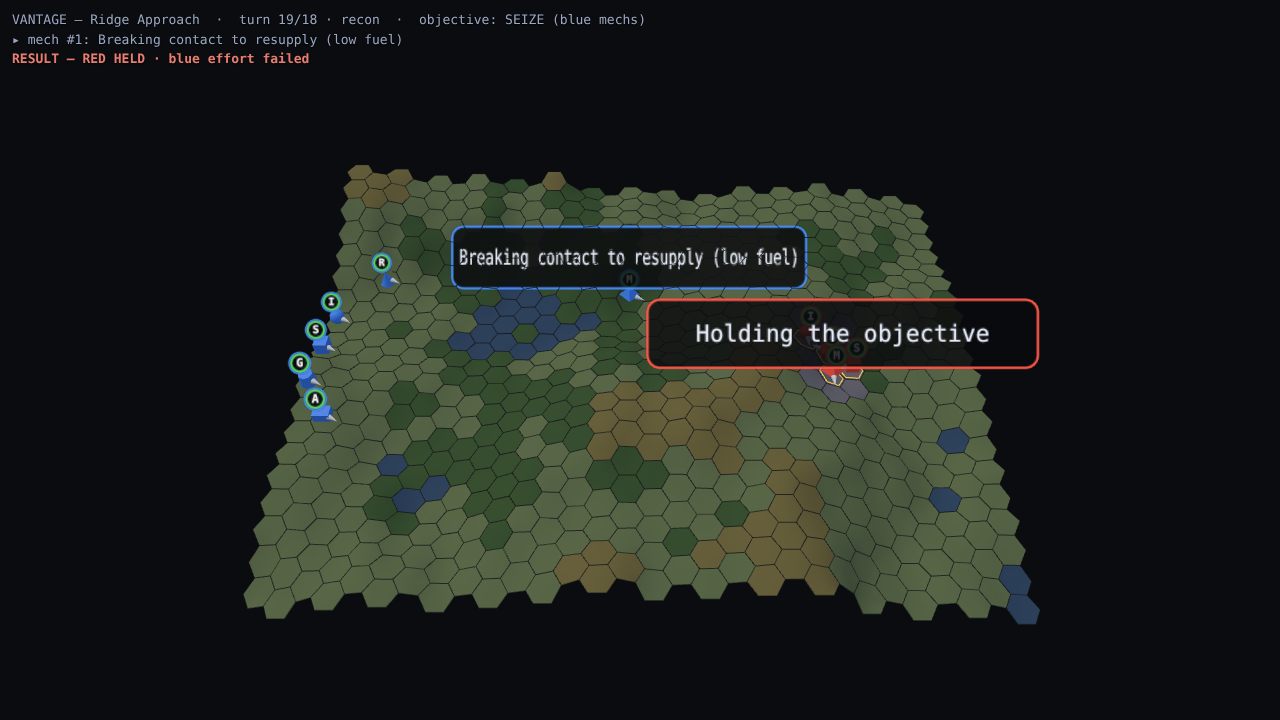
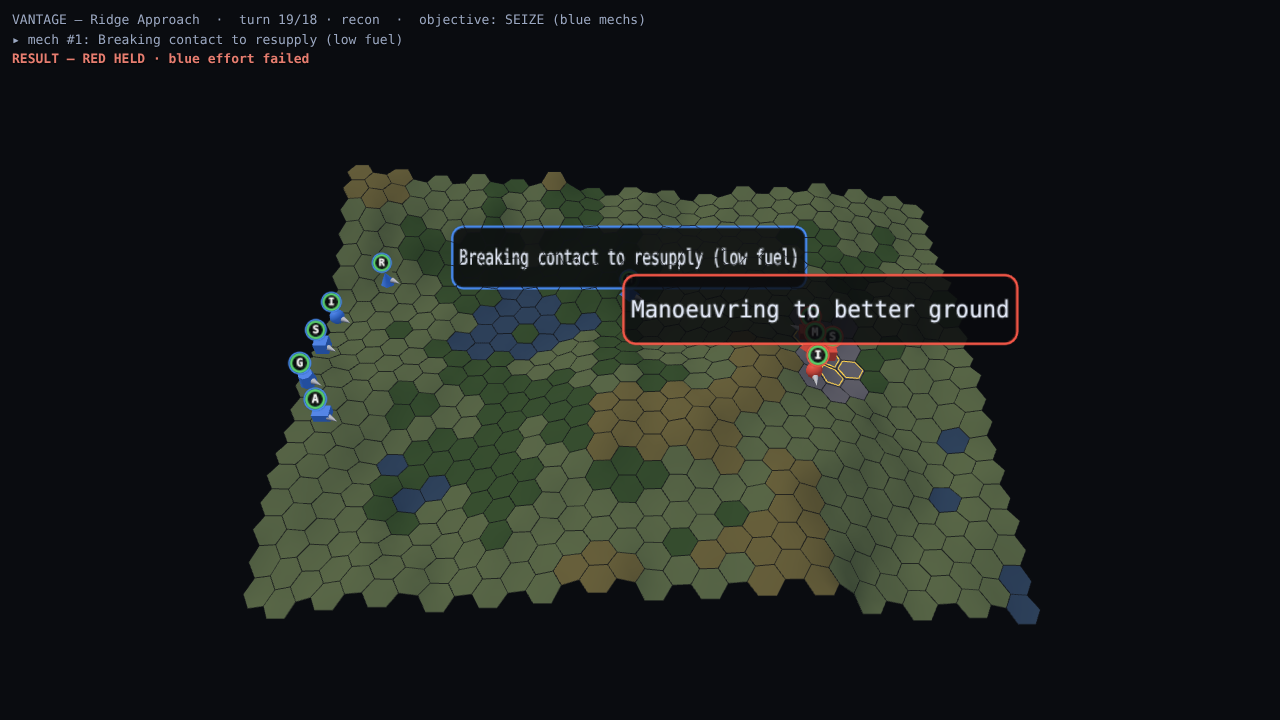
AI-3a: varied, proactive force planning (deterministic, not rote)
Address the concern that the AI shouldn't play rote, predictable patterns —
without breaking the deterministic/seedable foundation.

- sim/plan.ts — a per-side force planner assigns each unit a TASK (hold a
  prepared position / screen / rove / rear). It's deterministic yet VARIED:
  seeded "AI noise" (per seed/turn/side) chooses posture, how far forward to set
  up, and which cover/overwatch positions to occupy. Same seed → identical
  (self-play/tests still hold); different seeds → different defences, so the AI
  can't be memorised as one script.
- A defender no longer sits clumped on the objective: it disperses into prepared
  cover/overwatch positions facing the approach, holds its supply to the rear,
  and sometimes ROVES the mech to better ground (proactive) instead of anchoring.
- sim/ai.ts — decideUnit(state, unit, task?) consumes the assigned goal via the
  existing consideration scorer (objective pull retargets to the task hex; the
  seize bonus is attacker-only). commandForce plans the side first, then acts.
  The attacker stays objective-seeking (no tasks) — the proof's blue side is
  unchanged.

Determinism preserved end-to-end. The now-competent, varied defender sometimes
holds even a supported attack, so the proof is realistic: unaided 0/20, with
concentrated support ~16/24 (≥12/20). Fixed proof seed moved to one that wins.

Verified: 4 new plan tests (determinism, cross-seed variety, dispersed
[…]

Changed region(s): [[0.4688, 0.3667, 0.8125, 0.55]]

diff --git a/src/sim/plan.ts b/src/sim/plan.ts
@@ -1,0 +1,136 @@
+import { mulberry32Step } from "../core/rng";
+import { terrain } from "../data/terrain";
+import type { Side } from "../data/types";
+import { unitType } from "../data/units";
+import { hexDistance, hexKey, type Hex } from "./hex";
+import { livingUnits, type GameState } from "./state";
+
+// Force-level planning. Before units act, the AI forms a plan for its side and
+// assigns each unit a TASK (where to be, what posture). The plan is DETERMINISTIC
+// (seeded) but VARIED and PROACTIVE: a defender doesn't just sit on the point —
+// it picks prepared positions in cover/overwatch, varies how far forward it sets
+// up, sometimes pushes a screen or sends a rover, and keeps the rear safe. The
+// variety comes from seeded "AI noise", so the same seed replays identically
+// (self-play/tests hold) while no two seeds — and few turns — play the same way.
+
+export type TaskKind = "hold" | "screen" | "rove" | "rear";
+
+export interface Task {
+  goalHex: Hex;
+  kind: TaskKind;
+}
+
+export interface ForcePlan {
+  tasks: Map<number, Task>;
+}
+
+/** Deterministic per-(seed, turn, side, salt) value in [0,1). Different seeds →
+ *  different choices; same seed → identical. */
+export function aiNoise(state: GameState, side: Side, salt: number): number {
+  const h =
+    (Math.imul(state.seed | 1, 2654435761) ^
+      Math.imul(state.turn + 1, 40503) ^
+      (side === "blue" ? 0x9e3779b1 : 0x85ebca6b) ^
+      Math.imul(salt + 1, 668265263)) |
+    0;
+  return mulberry32Step(h).value;
+}
+
+function centroid(hexes: readonly Hex[]): Hex {
+  if (hexes.length === 0) return { q: 0, r: 0 };
+  let q = 0;
+  let r = 0;
+  for (const h of hexes) {
+    q += h.q;
+    r += h.r;
+  }
+  return { q: Math.round(q / hexes.length), r: Math.round(r / hexes.length) };
+}
+
+function passable(state: GameState, h: Hex): boolean {
+  const cell = state.cells.get(hexKey(h));
+  return !!cell && Number.isFinite(terrain(cell.terrain).moveCost);
+}
+
+/** Build the side's plan. The attacker keeps default goals (objective-seeking,
+ *  handled by the unit AI); the defender is positioned deliberately. */
+export function planForce(state: GameState, side: Side): ForcePlan {
+  const tasks = new Map<number, Task>();
+  if (side === state.objective.attacker) return { tasks }; // attacker: AI-2 objective-seeking
+
+  const zone = state.objective.zone;
+  const obj = centroid(zone);
+  // The threat comes from the attacker's home edge; "forward" faces it.
+  const threatFromMinQ = state.objective.attacker === "blue";
+  const forwardSign = threatFromMinQ ? -1 : 1;
+
+  // Seeded posture: how far forward to set up, and whether the mech roves.
+  const forwardness = 1 + Math.floor(aiNoise(state, side, 1) * 3); // 1..3 hexes
+  const roveMech = aiNoise(state, side, 2) < 0.45; // sometimes the heavy element manoeuvres
+  const screenFwd = aiNoise(state, side, 3) < 0.5; // sometimes push a forward screen
+
+  const idealForwardQ = obj.q + forwardSign * forwardness;
+  // Candidate prepared positions: near the objective, cover preferred, on the
+  // threat-facing side; a seeded jitter per hex breaks ties → varied layouts.
+  const cand = state.map.cells
+    .filter((c) => passable(state, c.hex) && hexDistance(c.hex, obj) <= 4)
+    .map((c) => {
+      const t = terrain(c.terrain);
+      const forwardFit = -Math.abs(c.hex.q - idealForwardQ); // near the chosen depth
+      const jitter = aiNoise(state, side, c.hex.q * 31 + c.hex.r * 7) * 1.4;
+      return { hex: c.hex, score: t.cover * 2 + forwardFit + jitter - hexDistance(c.hex, obj) * 0.2 };
+    })
+    .sort((a, b) => b.score - a.score)
+    .map((c) => c.hex);
+
+  const used = new Set<string>();
+  const take = (pred: (h: Hex) => boolean): Hex | undefined => {
+    for (const h of cand) {
+      if (!used.has(hexKey(h)) && pred(h)) {
+        used.add(hexKey(h));
+        return h;
+      }
+    }
+    return undefined;
+  };
+  const nearestZoneHex = (from: Hex): Hex => {
+    let best = zone[0] ?? obj;
+    let bd = Infinity;
+    for (const z of zone) {
+      const d = hexDistance(from, z);
+      if (d < bd) {
+        bd = d;
+        best = z;
+      }
+    }
+    return best;
+  };
+  // A safe hex to the rear (away from the threat) for the supply train.
+  const rearQ = obj.q - forwardSign * 3;
+  const rearHex =
+    state.map.cells
+      .filter((c) => passable(state, c.hex) && hexDistance(c.hex, obj) <= 5)
+      .map((c) => ({ hex: c.hex, d: Math.abs(c.hex.q - rearQ) + hexDistance(c.hex, obj) * 0.3 }))
+      .sort((a, b) => a.d - b.d)[0]?.hex ?? obj;
+
+  for (const u of livingUnits(state, side)) {
+    const cls = unitType(u.typeId).cls;
+    if (cls === "supply") {
+      tasks.set(u.id, { goalHex: rearHex, kind: "rear" });
+    } else if (cls === "mech") {
+      if (roveMech) {
+        // Manoeuvre to a forward cover/overwatch position instead of sitting.
+        const fwd = take((h) => forwardSign < 0 ? h.q < obj.q : h.q > obj.q) ?? nearestZoneHex(u.hex);
+        tasks.set(u.id, { goalHex: fwd, kind: "rove" });
+      } else {
+        tasks.set(u.id, { goalHex: nearestZoneHex(u.hex), kind: "hold" }); // anchor the objective
+      }
+    } else if (screenFwd && (cls === "recon" || cls === "infantry")) {
+      const screen = take((h) => (forwardSign < 0 ? h.q <= idealForwardQ : h.q >= idealForwardQ)) ?? u.hex;
+      tasks.set(u.id, { goalHex: screen, kind: "screen" });
+    } else {
+      tasks.set(u.id, { goalHex: take(() => true) ?? u.hex, kind: "hold" });
+    }
+  }
+  return { tasks };
+}

diff --git a/test/plan.test.ts b/test/plan.test.ts
@@ -1,0 +1,41 @@
+import { describe, it, expect } from "vitest";
+import { planForce } from "../src/sim/plan";
+import { createGame } from "../src/sim/state";
+import { hexKey } from "../src/sim/hex";
+import { MAP01 } from "../src/data/maps/map01";
+
+// Layout signature: the multiset of (goal hex, task kind) a side's plan produces.
+function defenderLayout(seed: number): string {
+  const s = createGame(MAP01, seed);
+  return [...planForce(s, "red").tasks.values()]
+    .map((t) => `${hexKey(t.goalHex)}:${t.kind}`)
+    .sort()
+    .join("|");
+}
+
+describe("force planning (AI-3a)", () => {
+  it("is deterministic for a seed", () => {
+    const s = createGame(MAP01, 5);
+    expect(planForce(s, "red")).toEqual(planForce(s, "red"));
+  });
+
+  it("varies the defence across seeds (not a rote pattern)", () => {
+    const layouts = new Set<string>();
+    for (let seed = 1; seed <= 8; seed++) layouts.add(defenderLayout(seed));
+    expect(layouts.size).toBeGreaterThan(1); // different seeds → different setups
+  });
+
+  it("spreads the defenders into prepared positions, not all on the point", () => {
+    const s = createGame(MAP01, 3);
+    const plan = planForce(s, "red");
+    const goals = new Set([...plan.tasks.values()].map((t) => hexKey(t.goalHex)));
+    expect(plan.tasks.size).toBeGreaterThanOrEqual(4); // every red unit is tasked
+    expect(goals.size).toBeGreaterThanOrEqual(3); // and dispersed to distinct positions
+    expect([...plan.tasks.values()].some((t) => t.kind === "rear")).toBe(true); // supply held back
+  });
+
+  it("leaves the attacker objective-seeking (no imposed positions)", () => {
+    const s = createGame(MAP01, 3);
+    expect(planForce(s, "blue").tasks.size).toBe(0);
+  });
+});

diff --git a/src/sim/ai.ts b/src/sim/ai.ts
@@ -10,6 +10,7 @@ import { pathTo, reachable } from "./pathing";
 import { canMove, livingUnits, terrainAt, type GameState, type UnitInstance } from "./state";
 import { isEligible } from "./turn";
 import { isScouted } from "./vision";
+import { planForce, type Task } from "./plan";
 
 // The force AI: ONE capability-aware, fog-limited brain that commands whatever
 // units are assigned to it (controller === "ai"), each according to its role.
@@ -147,6 +148,8 @@ interface AiContext {
   visible: EnemyView[];
   believedHexes: Hex[];
   friendHexes: Hex[];
+  goal: readonly Hex[]; // where this unit is trying to be (zone, or an assigned task hex)
+  allowSeize: boolean; // only the attacker scores the seize bonus
   zone: readonly Hex[];
   zoneKeys: Set<string>;
   supplyPts: Hex[];
@@ -169,8 +172,8 @@ type ConsiderationName =
   | "nearNeedy";
 
 const CONSIDERATIONS: Record<ConsiderationName, (ctx: AiContext, h: Hex) => number> = {
-  objective: (ctx, h) => ctx.dObjFrom - nearestDist(h, ctx.zone),
-  seize: (ctx, h) => (ctx.zoneKeys.has(hexKey(h)) ? 1 : 0),
+  objective: (ctx, h) => ctx.dObjFrom - nearestDist(h, ctx.goal),
+  seize: (ctx, h) => (ctx.allowSeize && ctx.zoneKeys.has(hexKey(h)) ? 1 : 0),
   supply: (ctx, h) => ctx.need.need * (ctx.dSupFrom - nearestDist(h, ctx.supplyPts)),
   exposure: (ctx, h) => exposureAt(ctx.state, ctx.side, h, ctx.believed),
   attack: (ctx, h) => bestShotValue(ctx.unit, h, ctx.visible),
@@ -211,13 +214,14 @@ function needsSupply(u: UnitInstance): boolean {
 
 /** Decide one unit's move this turn (pure — no mutation), scoring reachable
  *  hexes by its role's weighted considerations. */
-export function decideUnit(state: GameState, unit: UnitInstance): UnitDecision {
+export function decideUnit(state: GameState, unit: UnitInstance, task?: Task): UnitDecision {
   const side = unit.side;
   const cls = unitType(unit.typeId).cls;
   const role = ROLE[cls];
   const believed = believedEnemies(state, side);
   const visible = visibleSightings(state, side);
   const zone = state.objective.zone;
+  const goal = task ? [task.goalHex] : zone; // an assigned position, or the objective
   const ctx: AiContext = {
     state,
     side,
@@ -226,12 +230,14 @@ export function decideUnit(state: GameState, unit: UnitInstance): UnitDecision {
     visible,
     believedHexes: believed.map((e) => e.hex),
     friendHexes: livingUnits(state, side).filter((u) => u.id !== unit.id).map((u) => u.hex),
+    goal,
+    allowSeize: !task, // only the objective-seeking attacker takes the zone
     zone,
     zoneKeys: new Set(zone.map(hexKey)),
     supplyPts: supplySources(state, side),
     needyHexes: livingUnits(state, side).filter((u) => u.id !== unit.id && needsSupply(u)).map((u) => u.hex),
     need: sustainmentNeed(unit),
-    dObjFrom: nearestDist(unit.hex, zone),
+    dObjFrom: nearestDist(unit.hex, goal),
     dSupFrom: nearestDist(unit.hex, supplySources(state, side)),
     idealRange: role.idealRange,
   };
@@ -261,8 +267,8 @@ export function decideUnit(state: GameState, unit: UnitInstance): UnitDecision {
 
   const path = mobile ? pathTo(reach, bestKey) : [];
   const fireTargetId = pickTarget(unit, bestHex, visible);
-  const objGain = ctx.dObjFrom - nearestDist(bestHex, zone);
-  const { stance, intent } = describe(cls, ctx, { objGain, exposed: exposureAt(state, side, bestHex, believed), fireTargetId, mobile });
+  const objGain = ctx.dObjFrom - nearestDist(bestHex, goal);
+  const { stance, intent } = describe(cls, ctx, { objGain, exposed: exposureAt(state, side, bestHex, believed), fireTargetId, mobile }, task);
   return { unitId: unit.id, stance, intent, destination: bestHex, path, fireTargetId };
 }
 
@@ -284,11 +290,26 @@ function describe(
   cls: UnitClass,
   ctx: AiContext,
   x: { objGain: number; exposed: number; fireTargetId: number | null; mobile: boolean },
+  task?: Task,
 ): { stance: Stance; intent: string } {
   const tgtName = () => {
     const t = ctx.visible.find((e) => e.id === x.fireTargetId);
     return t ? unitType(t.typeId).name : "the enemy";
   };
+  // A unit under a defensive task reports what the plan has it doing.
+  if (task) {
+    switch (task.kind) {
+      case "screen":
+        return { stance: "screen", intent: x.fireTargetId !== null ? `Screening — engaging ${tgtName()}` : "Screening the approach" };
+      case "rove":
+        return { stance: "screen", intent: x.fireTargetId !== null ? `Manoeuvring — engaging ${tgtName()}` : "Manoeuvring to better ground" };
+      case "rear":
+        return { stance: "sustain", intent: "Holding the rear" };
+      case "hold":
+      default:
+        return { stance: "hold", intent: x.fireTargetId !== null ? `Holding — engaging ${tgtName()}` : "Holding a prepared position" };
+    }
+  }
   if (cls === "mech") {
     if (!x.mobile) return { stance: "immobilised", intent: x.fireTargetId !== null ? "Immobilised — holding and returning fire" : "Immobilised — stranded, awaiting recovery" };
     if (ctx.need.need >= W.needTrigger && x.objGain <= 0) return { stance: "resupply", intent: `Breaking contact to resupply (${ctx.need.reason || "sustainment"})` };
@@ -344,11 +365,13 @@ function doResupply(state: GameState, unit: UnitInstance): void {
   if (adj[0]) resupplyUnit(state, unit, adj[0]);
 }
 
-/** Decide + execute every eligible AI-controlled unit of a side. */
+/** Decide + execute every eligible AI-controlled unit of a side, under a
+ *  seeded force plan (varied, deterministic positioning + posture). */
 export function commandForce(state: GameState, side: Side): void {
+  const plan = planForce(state, side);
   for (const unit of livingUnits(state, side)) {
     if (unit.controller !== "ai" || !isEligible(state, unit)) continue;
-    const decision = decideUnit(state, unit);
+    const decision = decideUnit(state, unit, plan.tasks.get(unit.id));
     state.intents[unit.id] = decision.intent;
     if (decision.path.length) moveUnit(state, unit, decision.path);
     const action = ROLE[unitType(unit.typeId).cls].action;

diff --git a/test/coreproof.test.ts b/test/coreproof.test.ts
@@ -10,7 +10,7 @@ import { MAP01 } from "../src/data/maps/map01";
 // delta attributable to player action alone (same seed, same map, same enemy,
 // same commander — only the blue support policy differs).
 
-const SEED = 1;
+const SEED = 3;
 
 describe("core proof — support changes the outcome", () => {
   it("unsupported mechs FAIL the Seize; the SAME battle SUCCEEDS with support", () => {
@@ -51,13 +51,15 @@ describe("core proof — support changes the outcome", () => {
   });
 
   it("the support advantage is broad, not a lucky seed (sample of seeds)", () => {
+    // The defender is a varied, competent AI, so it sometimes holds even a
+    // supported attack — but the delta is decisive: unaided it never loses.
     let noWins = 0;
     let withWins = 0;
-    for (let seed = 1; seed <= 12; seed++) {
+    for (let seed = 1; seed <= 20; seed++) {
       if (runMatch(createGame(MAP01, seed), noSupport).outcome === "blue") noWins++;
       if (runMatch(createGame(MAP01, seed), playerSupport).outcome === "blue") withWins++;
     }
     expect(noWins).toBe(0); // the mechs never seize unaided
-    expect(withWins).toBeGreaterThanOrEqual(9); // and usually do with support
+    expect(withWins).toBeGreaterThanOrEqual(12); // and usually do with support
   });
 });

diff --git a/src/sim/match.ts b/src/sim/match.ts
@@ -121,6 +121,6 @@ export const playerSupport: PlayerPolicy = (state) => {
       continue;
     }
     stepToward(state, u, obj, 3);
-    fireBest(state, u);
+    focusFire(state, u); // armour/infantry concentrate on the dangerous defender too
   }
 };

diff --git a/docs/game/architecture.md b/docs/game/architecture.md
@@ -152,10 +152,23 @@ memory), never ground truth. Staged, gated:
 > analysis), (2) after-action narration, or (3) an opt-in non-reproducible policy
 > excluded from tests/self-play. Env-configured, network-allowlisted, with the
 > deterministic AI as fallback. Revisit when there's a concrete use.
-- **AI-3 — Coordinated + adaptive planning**
-  A per-turn force plan from the belief — axis selection, role tasking, target
-  deconfliction, mutual support — adapting to *known* enemy posture. Bulk
-  self-play for balance/soundness.
+- **AI-3 — Coordinated + adaptive planning** *(in progress)*
+  A per-turn force plan (`sim/plan.ts`) assigns each unit a **task** (hold a
+  prepared position / screen / rove / rear). It is **deterministic yet varied**:
+  seeded "AI noise" (per seed/turn/side) picks posture, how far forward to set
+  up, and positions — so the same seed replays identically (self-play/tests
+  hold) but no two seeds play the same and the AI isn't a rote, exploitable
+  pattern. A defender no longer clumps on the point: it occupies cover/overwatch
+  positions, holds its supply to the rear, and sometimes **roves** the mech to
+  better ground instead of sitting. The unit AI consumes the task as its goal
+  (reusing the AI-2 consideration scorer). The attacker stays objective-seeking.
+  - **AI-3a — Varied, proactive positioning** ✅ — planner + tasks + seeded
+    variety; 4 plan tests (determinism, cross-seed variety, dispersed prepared
+    positions, attacker untouched) — 76 total. With the now-competent defender,
+    the core proof is decisive but realistic: unaided **0/20**, with support
+    **~16/24 (≥12/20)** — the defender sometimes holds even a supported attack.
+  - **AI-3b — Counterattack, reserves & target deconfliction** *(next)*.
+  - **AI-3c — Adaptivity + bulk self-play tuning**.
 
 Then the rest of v1 (Breakthrough objective, more units/maps in data) per brief §5.
 